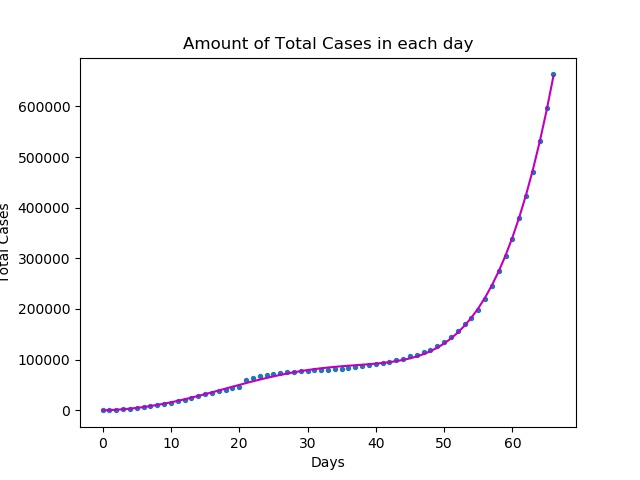
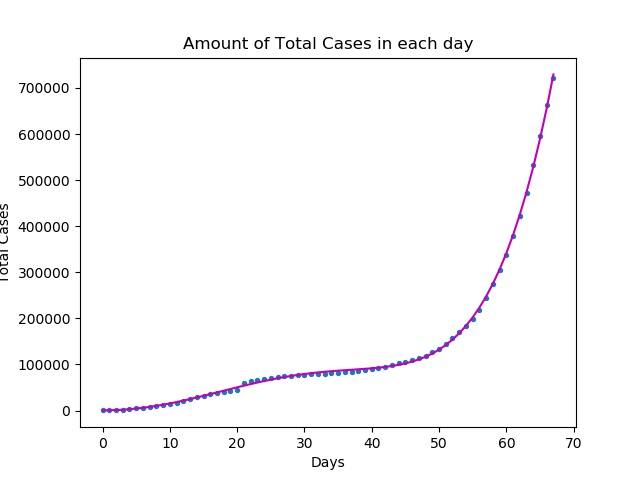
update 30/03/2020

diff --git a/README.md b/README.md
@@ -12,17 +12,17 @@ COVID-19, the disease that can result from the coronavirus worldwide new pandemi
 
 
 
-Our predictions for 29/03/2020 : 
+Our predictions for 30/03/2020 : 
 
-The predictions for Total Cases today is: 734521  
+The predictions for Total Cases today is: 810275
 
-The predictions for Total Active Cases today is: 552194
+The predictions for Total Active Cases today is: 609432
 
-The predictions for Total Cured Cases today is: 154244
+The predictions for Total Cured Cases today is: 165482
 
-The predictions for Total Deaths  today is: 34630
+The predictions for Total Deaths  today is: 38566
 
-The predictions for Total Critical Cases  today is: 28071
+The predictions for Total Critical Cases  today is: 31026
 
 
 
@@ -31,15 +31,26 @@ The predictions for Total Critical Cases  today is: 28071
 
 
 
-|    Date    | Predicted Total Cases | Real Total Cases | Predicted Total Recovered | Real Total Recovered | Predicted  Total Deaths | Real Total Deaths | Predicted Active Cases | Real Total Cases | Predicted  Critical Cases | Real Critical Cases |
-| :--------: | :-------------------: | :--------------: | :-----------------------: | :------------------: | :---------------------: | :---------------: | :--------------------: | :--------------: | :-----------------------: | :-----------------: |
-| 29/03/2020 |        734521         |        ??        |          154244           |          ??          |          34630          |        ??         |         552194         |        ??        |           28071           |         ??          |
-| 28/03/2020 |        657402         |      663124      |          142905           |        141953        |          30679          |       30862       |         490167         |      490309      |           28023           |        25207        |
-| 27/03/2020 |        585682         |      596366      |          131516           |        133059        |          27113          |       27344       |         431739         |      435963      |           22463           |        23522        |
-| 26/03/2020 |        521552         |      531865      |          121254           |        123942        |          23992          |       24073       |         379021         |      383850      |           17778           |        19357        |
-| 25/03/2020 |        466883         |      471035      |          114684           |        114228        |          21202          |       21284       |         333371         |      335523      |           15664           |        14792        |
-| 24/03/2020 |        419859         |      422574      |          108171           |        108879        |          18646          |       18894       |         292093         |      294801      |           14062           |        13095        |
-| 23/03/2020 |        374118         |      378860      |          104630           |        102069        |          16485          |       16514       |         252519         |      260277      |           12252           |        12062        |
+|    Date    | Predicted Total Cases | Real Total Cases | Predicted Total Recovered | Real Total Recovered | Predicted  Total Deaths | Real Total Deaths | Predicted Active Cases | Real Active Cases | Predicted  Critical Cases | Real Critical Cases |
+| :--------: | :-------------------: | :--------------: | :-----------------------: | :------------------: | :---------------------: | :---------------: | :--------------------: | :---------------: | :-----------------------: | :-----------------: |
+| 30/03/2020 |        810275         |        ??        |          165482           |          ??          |          38566          |        ??         |         609432         |        ??         |           31026           |         ??          |
+| 29/03/2020 |        734521         |      722359      |          154244           |        151312        |          34630          |       33966       |         552194         |      537081       |           28076           |        26789        |
+| 28/03/2020 |        657402         |      663124      |          142905           |        141953        |          30679          |       30862       |         490167         |      490309       |           28023           |        25207        |
+| 27/03/2020 |        585682         |      596366      |          131516           |        133059        |          27113          |       27344       |         431739         |      435963       |           22463           |        23522        |
+| 26/03/2020 |        521552         |      531865      |          121254           |        123942        |          23992          |       24073       |         379021         |      383850       |           17778           |        19357        |
+| 25/03/2020 |        466883         |      471035      |          114684           |        114228        |          21202          |       21284       |         333371         |      335523       |           15664           |        14792        |
+| 24/03/2020 |        419859         |      422574      |          108171           |        108879        |          18646          |       18894       |         292093         |      294801       |           14062           |        13095        |
+| 23/03/2020 |        374118         |      378860      |          104630           |        102069        |          16485          |       16514       |         252519         |      260277       |           12252           |        12062        |
+
+
+
+France Covid-19 total deaths Map as an example : 
+
+<iframe width='600' height='600' src='https://geodes.santepubliquefrance.fr/?view=map2&indics=covid_hospit.dc&serie=2020-03-28&f1code=0&lang=fr&iframe=1'></iframe>
+
+
+
+
 
 ## How to use
 
